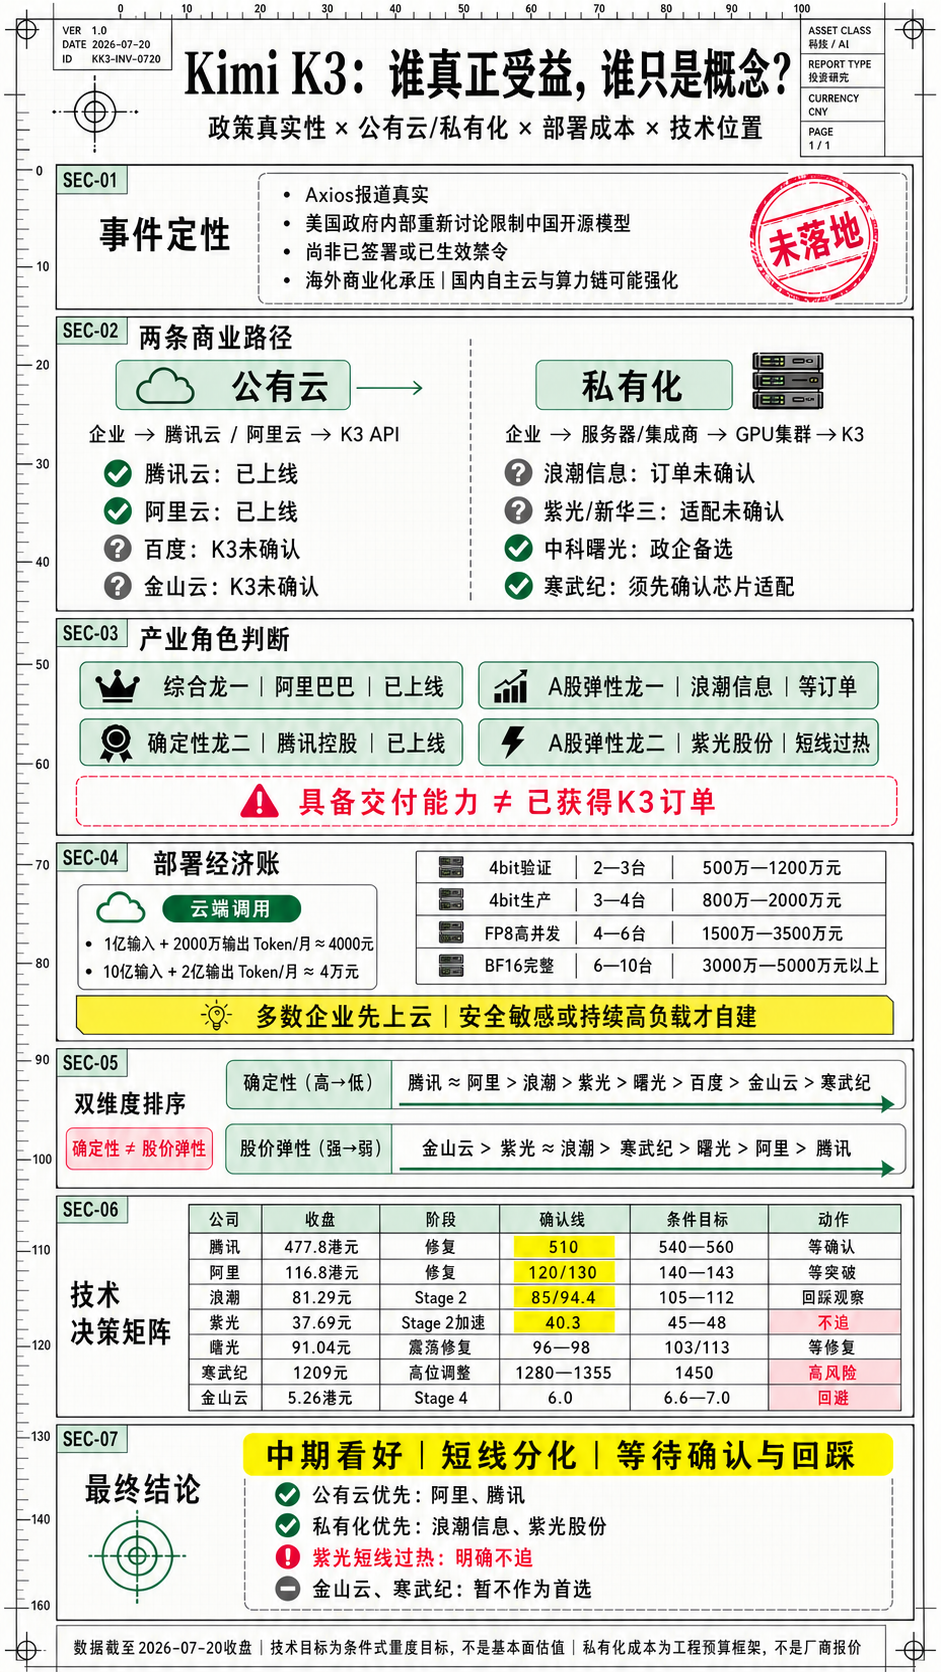
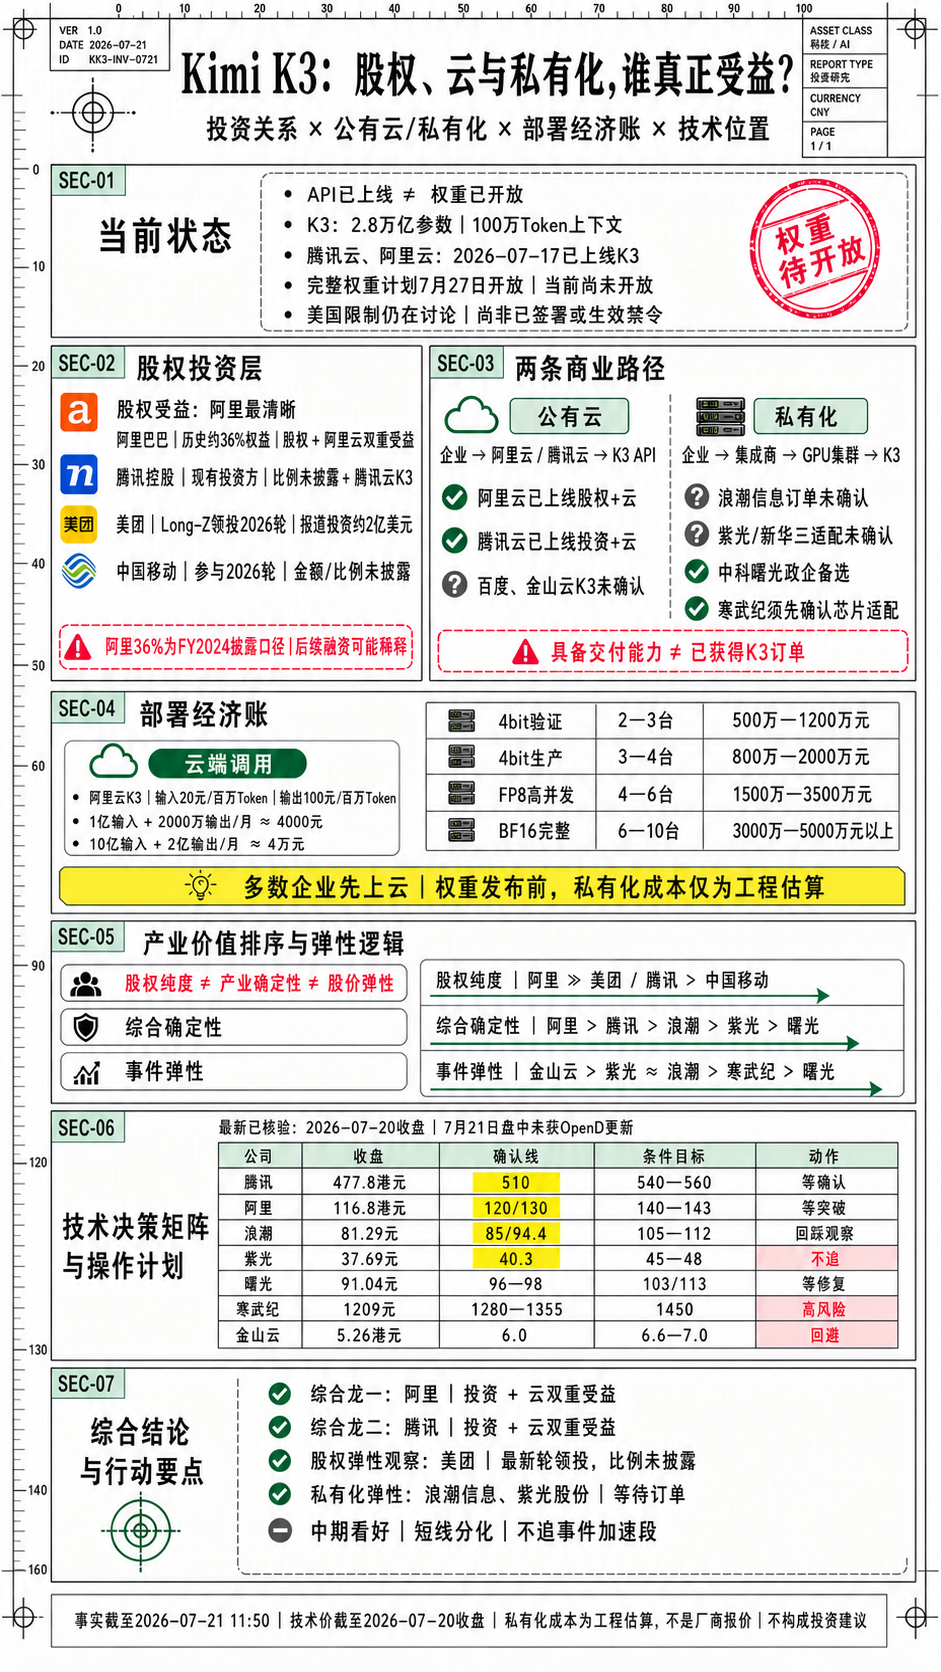
feat(kimi-k3): refresh investor and deployment map

diff --git a/kimi-k3/index.html b/kimi-k3/index.html
@@ -3,12 +3,13 @@
 <head>
   <meta charset="utf-8">
   <meta name="viewport" content="width=device-width, initial-scale=1">
-  <meta name="description" content="Kimi K3政策真实性、公有云与私有化部署、受益公司排序、部署成本和技术位置汇总。">
-  <meta property="og:title" content="Kimi K3：谁真正受益，谁只是概念？">
-  <meta property="og:description" content="政策真实性 × 公有云/私有化 × 部署成本 × 技术位置">
+  <meta name="description" content="Kimi K3股权投资、公有云与私有化部署、受益公司排序、部署成本和技术位置汇总。">
+  <meta property="og:title" content="Kimi K3：股权、云与私有化，谁真正受益？">
+  <meta property="og:description" content="投资关系 × 公有云/私有化 × 部署经济账 × 技术位置">
   <meta property="og:image" content="./kimi-k3-investment-map.png">
-  <title>Kimi K3：谁真正受益，谁只是概念？</title>
+  <title>Kimi K3：股权、云与私有化，谁真正受益？</title>
   <style>
+    @import url('https://fonts.googleapis.com/css2?family=LXGW+WenKai:wght@400;700&display=swap');
     :root {
       color-scheme: light;
       --paper: #f2f2f0;
@@ -26,8 +27,7 @@
         linear-gradient(90deg, rgba(31,116,83,.045) 1px, transparent 1px),
         var(--paper);
       background-size: 24px 24px;
-      font-family: -apple-system, BlinkMacSystemFont, "Segoe UI", "PingFang SC",
-        "Hiragino Sans GB", "Microsoft YaHei", sans-serif;
+      font-family: "LXGW WenKai", "Songti SC", "STSong", serif;
     }
     a { color: inherit; }
     .shell {
@@ -152,13 +152,13 @@
     </nav>
 
     <header class="hero">
-      <h1>Kimi K3：谁真正受益，谁只是概念？</h1>
-      <p class="subtitle">政策真实性 × 公有云/私有化 × 部署成本 × 技术位置。数据截至 2026-07-20 收盘。</p>
+      <h1>Kimi K3：股权、云与私有化，谁真正受益？</h1>
+      <p class="subtitle">投资关系 × 公有云/私有化 × 部署经济账 × 技术位置。事实核验截至 2026-07-21 11:50；技术价位截至 2026-07-20 收盘。</p>
     </header>
 
     <figure class="figure">
       <a href="./kimi-k3-investment-map.png" title="打开原始尺寸">
-        <img src="./kimi-k3-investment-map.png" alt="Kimi K3投资受益、部署成本和技术位置总览">
+        <img src="./kimi-k3-investment-map.png" alt="Kimi K3股权投资、公有云私有化、部署成本和技术位置总览">
       </a>
     </figure>
 
@@ -166,17 +166,21 @@
       <article class="panel">
         <h2>使用说明</h2>
         <ul>
+          <li>阿里 FY2024 披露的约 36% 是历史口径，后续融资可能稀释，不能当作当前精确持股比例。</li>
+          <li>K3 API 已上线，但完整权重计划 7 月 27 日开放；私有化服务器数量仍是工程估算。</li>
           <li>“已上线”与“具备部署能力”严格分开，后者不代表已经获得 K3 订单。</li>
           <li>技术目标是条件式量度目标，不是基本面估值或收益承诺。</li>
-          <li>私有化成本是按模型规模推导的工程预算框架，不是服务器厂商报价。</li>
         </ul>
       </article>
       <article class="panel sources">
         <h2>核心核验来源</h2>
         <ul>
           <li><a href="https://www.axios.com/2026/07/20/ai-us-china-open-source-kimi" target="_blank" rel="noreferrer">Axios：美国限制讨论</a></li>
+          <li><a href="https://static.alibabagroup.com/reports/fy2024/ar/ebook/EN/87/index.html" target="_blank" rel="noreferrer">阿里 FY2024 年报：Moonshot 投资</a></li>
+          <li><a href="https://techcrunch.com/2026/05/07/chinas-moonshot-ai-raises-2b-at-20b-valuation-as-demand-for-open-source-ai-skyrockets/" target="_blank" rel="noreferrer">Moonshot 2026 融资与投资方</a></li>
           <li><a href="https://cloud.tencent.com/document/product/1823/130675" target="_blank" rel="noreferrer">腾讯云 TokenHub 产品动态</a></li>
-          <li><a href="https://help.aliyun.com/zh/model-studio/model-pricing" target="_blank" rel="noreferrer">阿里云百炼模型价格</a></li>
+          <li><a href="https://help.aliyun.com/zh/model-studio/newly-released-models" target="_blank" rel="noreferrer">阿里云百炼：K3 上架记录</a></li>
+          <li><a href="https://help.aliyun.com/en/model-studio/model-pricing" target="_blank" rel="noreferrer">阿里云百炼模型价格</a></li>
         </ul>
         <span class="stamp">研究用途，不构成投资建议。</span>
       </article>
